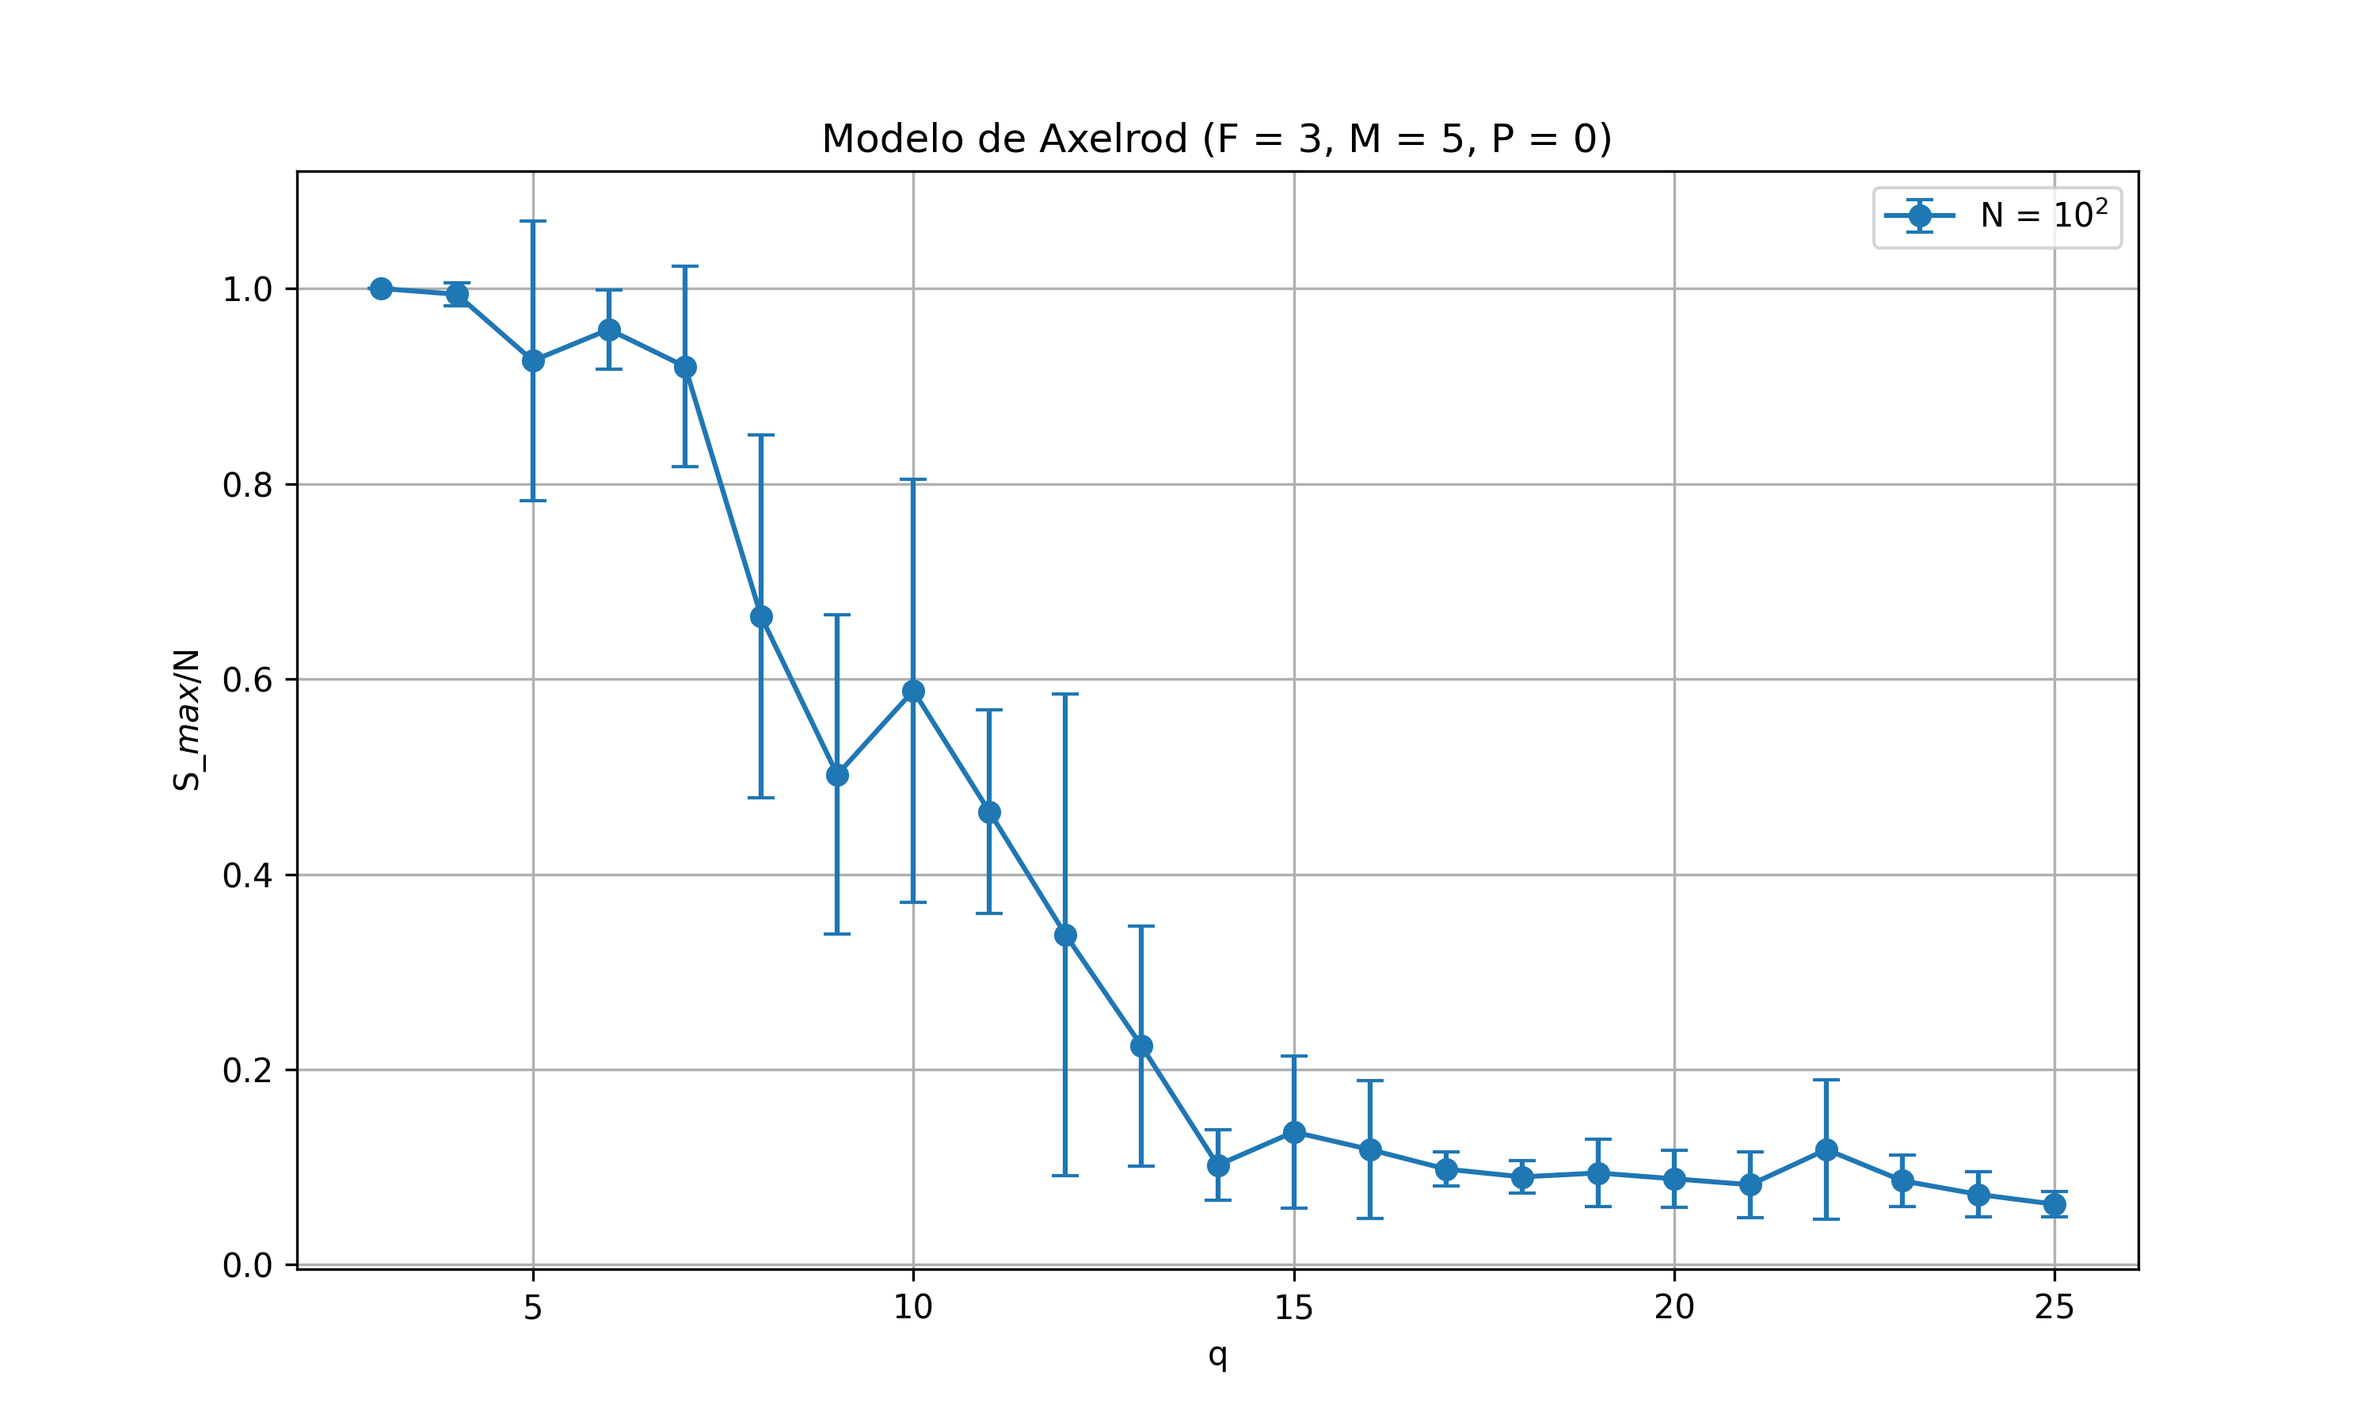
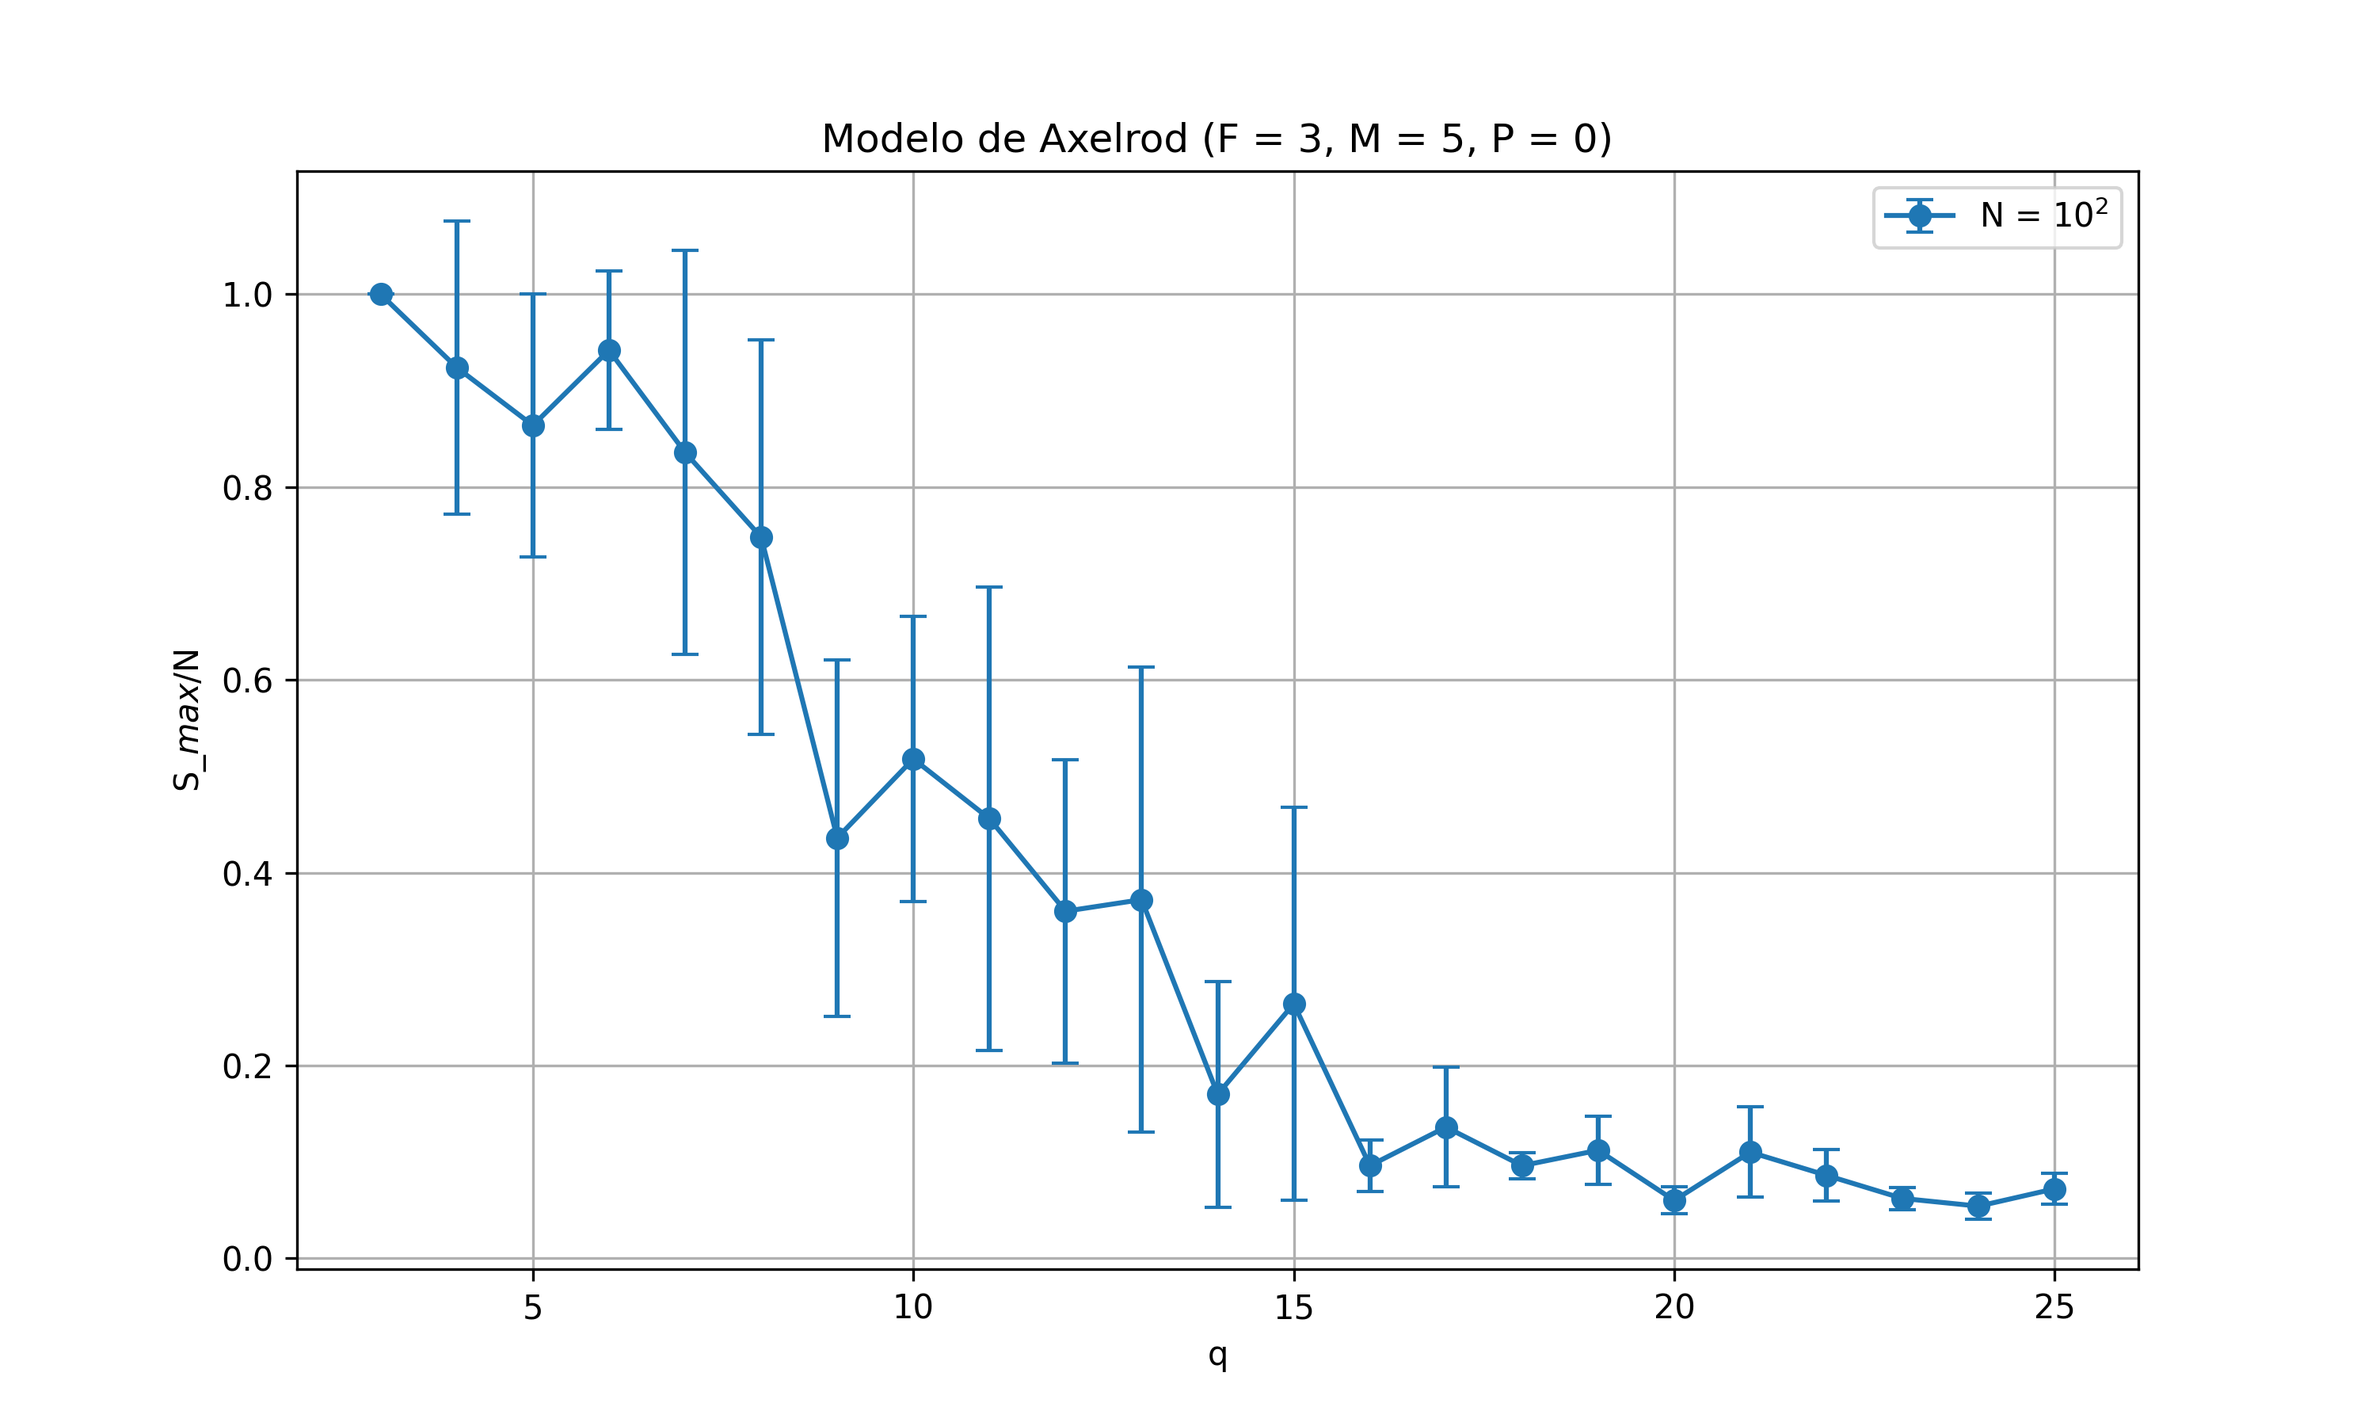
Nuevas funciones incluidas. Commit antes de optimizar con numba

diff --git a/func_aux.py b/func_aux.py
@@ -1,6 +1,8 @@
 import numpy as np
 import random
-#from numba import njit
+from numba import njit
+from numba.typed import List
+from collections import Counter
 
 def square_lattice(L):
     """
@@ -23,27 +25,34 @@ def square_lattice(L):
             # Vecino de la derecha (con contorno periódico)
             right = i * L + (j + 1) % L
             adjacency_matrix[current, right] = 1
-
     return adjacency_matrix
 #Calculamos la lista de vecinos
 def obtener_vecinos(adj_matrix, N, p):
-    vecinos_list = []
+    vecinos_list = List()  # Lista compatible con Numba
     for i in range(N):
-        vecinos = list(map(int, np.nonzero(adj_matrix[i])[0]))  # fuerza int
-        vecinos += list(range(N, N + p)) 
+        vecinos = List()
+        # Añade los vecinos de la matriz de adyacencia
+        for idx in np.nonzero(adj_matrix[i])[0]:
+            vecinos.append(int(idx))
+
+        # Añade los medios (de N a N+p-1)
+        for medio in range(N, N + p):
+            vecinos.append(medio)
+
         vecinos_list.append(vecinos)
+    
     return vecinos_list
 
 #Inicializa al azar la matriz de agentes
-#@njit
+@njit
 def MatrizInicial(agentes, N, f, q, prensas):
     for i in range(N+prensas):
          for j in range(f):
-            agentes[i][j] = np.random.randint(0,q)
+            agentes[i, j] = np.random.integers(0, q - 1)
     
 
 #Calcula la fracción de rasgos compartidos entre agentes i y j 
-#@njit
+@njit
 def similarity(i, j, agentes,f):
     sim = 0
     for k in range(f):
@@ -52,16 +61,16 @@ def similarity(i, j, agentes,f):
     return sim / f
 
 #Comprueba si ha finalizado la interacción
-#@njit
-def FinInteraccion(agentes, vecinos_list, N,f, prensas, sim_min):
+@njit
+def FinInteraccion(agentes, vecinos_list, N,f, p, sim_min):
     linksactivos = 0
-    for i in range(N+prensas):
+    for i in range(N):
         for j in vecinos_list[i]:
-            if j<N:
+            if j < i or (N <= j < N + p):
                 sim= similarity(i, j, agentes, f)
                 if sim<1 and sim>=sim_min:
                     linksactivos = linksactivos + 1
-    if linksactivos == 0:   
+    if linksactivos == 0: #or prensas>1:  
         # Si no queda interacción posible, devuelve True                    
         return True, linksactivos 
     else:           
@@ -101,8 +110,42 @@ def tamaño_mayor_cluster(agentes, vecinos_list, N):
                 mayor_cluster = cluster_size
 
     return mayor_cluster / N 
+# Más general que el anterior, ya que no solo devuelve el tamaño del mayor cluster.
+def tamaños_clusters(agentes, vecinos_list, N):
+    visitado = [False] * N
+    tamaños = []
 
+    for i in range(N):
+        if not visitado[i]:
+            cluster_size = 0
+            pila = [i]
+            visitado[i] = True
 
+            while pila:
+                nodo = pila.pop()
+                cluster_size += 1
+                
+                for v in vecinos_list[nodo]:
+                    if v < N and not visitado[v] and misma_cultura(agentes[i], agentes[v]):
+                        visitado[v] = True
+                        pila.append(v)
+
+            tamaños.append(cluster_size)
+
+    tamaños.sort(reverse=True)
+
+    # Contar la frecuencia de cada tamaño
+    contador = Counter(tamaños)
+
+    # Ordenar por tamaño de mayor a menor
+    tamaños_ordenados = sorted(contador.keys(), reverse=True)
+    frecuencias_ordenadas = [contador[t] for t in tamaños_ordenados]
+
+    #matriz de dos filas que en la primera tiene el tamaño de un cluster y en la segunda las vecs que aparece
+    matriz = np.array([tamaños_ordenados, frecuencias_ordenadas])
+    return matriz
+
+@njit
 def transformarmatriz(agentes, L, f, matriznueva):
     """
     Transforma la matriz de agentes en una matriz de tamaño L x L x f.
@@ -118,3 +161,63 @@ def transformarmatriz(agentes, L, f, matriznueva):
                 # y el índice en la nueva matriz es i, j, k
                 matriznueva[i][j][k] = agentes[i*L+j][k]
     return matriznueva
+
+
+def MatIniPrenExcl(agentes, N, f, q, prensas):
+    prensaaleatoria = np.zeros((N + prensas, f), dtype=int)
+    valor=0
+    # Inicializa los agentes normales
+    for i in range(N):
+        for j in range(f):
+            agentes[i][j] = np.random.randint(0, q)
+    # Inicializa los agentes de prensa asegurando que no sean iguales entre sí
+    for i in range(q):
+        for j in range(f):
+            prensaaleatoria[i][j] = i
+
+    for k in range(q*f*prensas):
+        i= random.randint(0, q-1)
+        j= random.randint(0, f-1)
+        valor=prensaaleatoria[i][j]
+        ia=random.randint(0, q-1)
+        ja=random.randint(0, f-1)
+        prensaaleatoria[i][j]= prensaaleatoria[ia][ja]
+        prensaaleatoria[ia][ja]= valor
+
+    for i in range(N, N+prensas):
+        for j in range(f):
+            agentes[i][j] = prensaaleatoria[i][j]
+
+
+
+            """while True:
+            nuevo = [np.random.randint(0, q) for _ in range(f)]
+            es_unico = True
+            for k in range(N, i):
+                if all(agentes[k][j] == nuevo[j] for j in range(f)):
+                    es_unico = False
+                    break
+            if es_unico:
+                for j in range(f):
+                    agentes[i][j] = nuevo[j]
+                break """
+
+            
+"""def FinInteraccionPrensa(agentes, vecinos_list, N,f, prensas, sim_min):
+    linksactivos = 0
+    for i in range(N+prensas):
+        for j in vecinos_list[i]:
+            if j<N:
+                sim= similarity(i, j, agentes, f)
+                if sim<1 and sim>=sim_min:
+                    linksactivos = linksactivos + 1
+    if linksactivos == 0: #or prensas>1:  
+        # Si no queda interacción posible, devuelve True                    
+        return True, linksactivos 
+    else:           
+        if linksactivos<N*prensas:
+        #Si encuentra al menos una interacción posible, devuelve False
+        return False, linksactivos"""
+
+        
+        

diff --git a/Axelrod.py b/Axelrod.py
@@ -1,21 +1,22 @@
 import numpy as np
 import matplotlib.pyplot as plt
 import random
-from func_aux import square_lattice, obtener_vecinos, MatrizInicial, FinInteraccion, similarity, misma_cultura, tamaño_mayor_cluster, transformarmatriz
-from graficas import graf_Smax_vs_q, links_activos_vs_tiempo, animar_matriz_vectores
-#L=  Lado de la red cuadrada
-L=10
-#N=Número de agentes
-N=L*L
+from func_aux import square_lattice, obtener_vecinos, MatrizInicial, FinInteraccion, similarity, misma_cultura, tamaño_mayor_cluster, transformarmatriz,MatIniPrenExcl, tamaños_clusters
+from graficas import graf_Smax_vs_q, graficar_links_vs_tiempo, animar_matriz_vectores, graf_Smax_std_vs_q
+
+
+L=10    #L=Lado de la red cuadrada
+N=L*L   #N=Número de agentes
 
 #Parámetros del modelo de Axelrod
 f=3  #f=numero de rasgo de cada individuo
 q_values=range(3,26) # Lista de q utilizados. q=numero de valores posibles para cada rasgo
 p=0  #p=número de medios de comunicacion (prensa)
-h=1.0     #probabilidad de interaccion con la prensa
+h=0.2     #probabilidad de interaccion con la prensa
 sim_min=1/f #similitud mínima normalizada para que dos agentes se consideren similares
 
-qespecial=10 #q para el que se quiere guardar la matriz de agentes
+#Parametros para la animación
+qanimacion=10 #q para el que se quiere guardar la matriz de agentes
 matriz_paso=np.zeros((L,L,f),dtype=int) #matriz de agentes para q=10
 matrizanimacion_list=[] #Lista en la que guardaremos las matrices de agentes para q=10
 
@@ -24,21 +25,21 @@ adj_matrix = square_lattice(L)
 vecinos_list=obtener_vecinos(adj_matrix, N, p)
 
 resultados = []      #cada elemento de la lista (dim q) es una sublista (dimension M, numero de simulaciones) con el valor del par. orden para cada q
-M=1
-#Número de simulaciones del modelo de Axelrod para cada q, para promediar el tamaño del mayor cluster
-
+M=1   #Número de simulaciones del modelo de Axelrod para cada q, para promediar el tamaño del mayor cluster
+  
 #links activos
 linksactivos=0
-link_list=[]
+link_list_qvalues=[]
 #Abrimos fichero para guardar numero de links activos frente a tiempo
 #with open("resultados_tiempo_links.csv", "w") as file:
 
 for q in q_values:
+    link_list=[]
     par_orden_q=[] #Lista en la que guardaremos el tamaño del mayor cluster para cada q en cada simulación m
     for m in range(M):
         #agentes=matriz de vectores f. Inicalizamos la matriz de agentes
-        agentes=np.zeros((N+p,f),dtype=int) #agentes=matriz de vectores F
-        MatrizInicial(agentes,N,f,q,p)
+        agentes=np.zeros((N+p,f),dtype=np.int32) #agentes=matriz de vectores F
+        MatIniPrenExcl(agentes,N,f,q,p)
 
         #Bucle en el que realizamos el modelo de Axelrod
         haterminado=False
@@ -64,7 +65,7 @@ for q in q_values:
 
             
 
-            if q == qespecial and m == M-1:
+            if q == qanimacion and m == M-1:
                 matriz_paso = np.zeros((L, L, f), dtype=int)
                 transformarmatriz(agentes, L, f, matriz_paso)
                 matrizanimacion_list.append(matriz_paso)    
@@ -73,20 +74,17 @@ for q in q_values:
             haterminado, linksactivos=FinInteraccion(agentes,vecinos_list,N,f,p,sim_min)
             tiempo+=1
             link_list.append(linksactivos)
-
-            '''
-            if q==qespecial and m==M-1:
-                transformarmatriz(agentes, L, f, matriznueva)
-                matrizanimacion_list.append(matriznueva)    
-                '''
-            
-            
+            #corte de seguridad por si no se alcanza estado absor
+            if tiempo>5000:
+                haterminado=True
             
 
         #Calculamos el tamaño del mayor cluster
-        mayor_cluster = tamaño_mayor_cluster(agentes, vecinos_list, N)
+        #mayor_cluster = tamaño_mayor_cluster(agentes, vecinos_list, N)
+        mayor_cluster =tamaños_clusters(agentes, vecinos_list, N)[0][0]
         par_orden_q.append(mayor_cluster)
     
+    link_list_qvalues.append((q, link_list.copy()))
     resultados.append(par_orden_q) 
 
 #Calculamos el tamaño medio y la desviación típica
@@ -95,9 +93,9 @@ par_orden_std=[np.std(res) for res in resultados]
 
 #Graficamos
 graf_Smax_vs_q(q_values, par_orden_medio, par_orden_std, f, M, L, p, h)
-#graf_Smax_std_vs_q(q_values, par_orden_std, f, M, L,p,h)
-links_activos_vs_tiempo(link_list)
-animar_matriz_vectores(matrizanimacion_list,qespecial)
+graf_Smax_std_vs_q(q_values, par_orden_std, f, M, L,p,h)
+graficar_links_vs_tiempo(link_list_qvalues, f, p, h)
+animar_matriz_vectores(matrizanimacion_list,qanimacion, f, p, h)
 
 
    #Falta:
@@ -106,5 +104,21 @@ animar_matriz_vectores(matrizanimacion_list,qespecial)
    # desviación estandar de Smax frente a q
    # finalizar cuando links activos = cte
    
-   #######  variable continua 
+   #######  variable continua NO 
 
+ # distribucion tamaño de cluster (power law)
+ 
+ # graficas pizarra
+ # estudiar p=1
+
+##### pa la entrega del 18 de junio #####
+ # small world 
+
+
+###### PARA LA PRESENTACIÓN:
+    # 1. explicación general de Axelrod (hacemos dibujito en la pizarra)
+    # 2. el sistema llega estado absor. (nlinks activos = 0) GIF DE AMBOS CASOS
+    # 3. conforme se aumenta el número de q, se transiciona de monocult a multicult (se observa con el parámetro de orden Smax/N)
+    # 4. estudiamos las gráfics de Smax/N vs q y sigma/N vs q y determinamos el punto crítico q_c
+    # 5. estudiamos distribución del tammño de cluster (power law) en el punto crítico q_c
+    # 6. qué vamos a hacer nosotros: estudiar el efecto de prensas (+ mundo pequeño)

diff --git a/graficas.py b/graficas.py
@@ -20,7 +20,7 @@ def graf_Smax_vs_q(q_values, par_orden_medio, par_orden_std, f, M, L,p,h):
         plt.savefig(carpeta + f"Axelrod_F{f}_M{M}_L{L}_P{p}.png", dpi=300)
     plt.show()
 
-"""def graf_Smax_std_vs_q(q_values, par_orden_std, f, M, L,p,h):
+def graf_Smax_std_vs_q(q_values, par_orden_std, f, M, L,p,h):
     carpeta = "Smax_std_vs_q_graficas/"
     plt.figure(figsize=(10, 6))
     plt.plot(q_values, par_orden_std , 'o-', label=f'N = {L}$^2$')
@@ -36,8 +36,8 @@ def graf_Smax_vs_q(q_values, par_orden_medio, par_orden_std, f, M, L,p,h):
         plt.savefig(carpeta + f"std_Axelrod_F{f}_M{M}_L{L}_P{p}_h{h}.png", dpi=300)
     else:
         plt.savefig(carpeta + f"std_Axelrod_F{f}_M{M}_L{L}_P{p}.png", dpi=300)
-"""
-def links_activos_vs_tiempo(link_list):
+
+"""def links_activos_vs_tiempo(link_list):
     tiempos = list(range(len(link_list)))
     plt.figure(figsize=(8, 5))
     plt.plot(tiempos, link_list, marker='o', linestyle='-', color='blue')
@@ -47,10 +47,36 @@ def links_activos_vs_tiempo(link_list):
     plt.grid(True)
     plt.tight_layout()
     plt.savefig("links_activos_vs_tiempo.png", dpi=300)
-    plt.show()
+    plt.show()"""
+
+def graficar_links_vs_tiempo(links_por_q, f, p, h):
+    carpeta ="links_activos_vs_t/"
+
+
+      # Definimos los intervalos de q
+    rangos = [
+        (3, 10),
+        (11, 18),
+        (19, 27)
+    ]
+
+    for i, (q_min, q_max) in enumerate(rangos, start=1):
+        plt.figure(figsize=(10, 6))
+        for q, links in links_por_q:
+            if q_min <= q <= q_max:
+                tiempos = list(range(len(links)))
+                plt.plot(tiempos, links, label=f"q = {q}")
+        plt.xlabel("Tiempo")
+        plt.ylabel("Número de links activos")
+        plt.title(f"Links activos vs tiempo para {q_min} ≤ q ≤ {q_max}")
+        plt.legend()
+        plt.grid(True)
+        plt.tight_layout()
+        plt.savefig(f"{carpeta}links_act_vs_t_q_{q_min}_{q_max}_f{f}_p{p}_h{h}.png", dpi=300)
+        plt.close()
     
 
-def animar_matriz_vectores(matrices, q):
+def animar_matriz_vectores(matrices, q, f, p, h):
     intervalo = 20
     max_val = q - 1  # Valor máximo posible para cada canal
     matrices_rgb = []
@@ -70,7 +96,7 @@ def animar_matriz_vectores(matrices, q):
     ani = animation.FuncAnimation(
         fig, actualizar, frames=len(matrices_rgb), interval=intervalo, blit=True, repeat=False
     )
-    ani.save('animacion.gif', writer='pillow')
+    ani.save(f'animacion_q={q}_f={f}_p={p}_h={h}.gif', writer='pillow')
     plt.show()
     return ani  # Mantén la referencia
 
